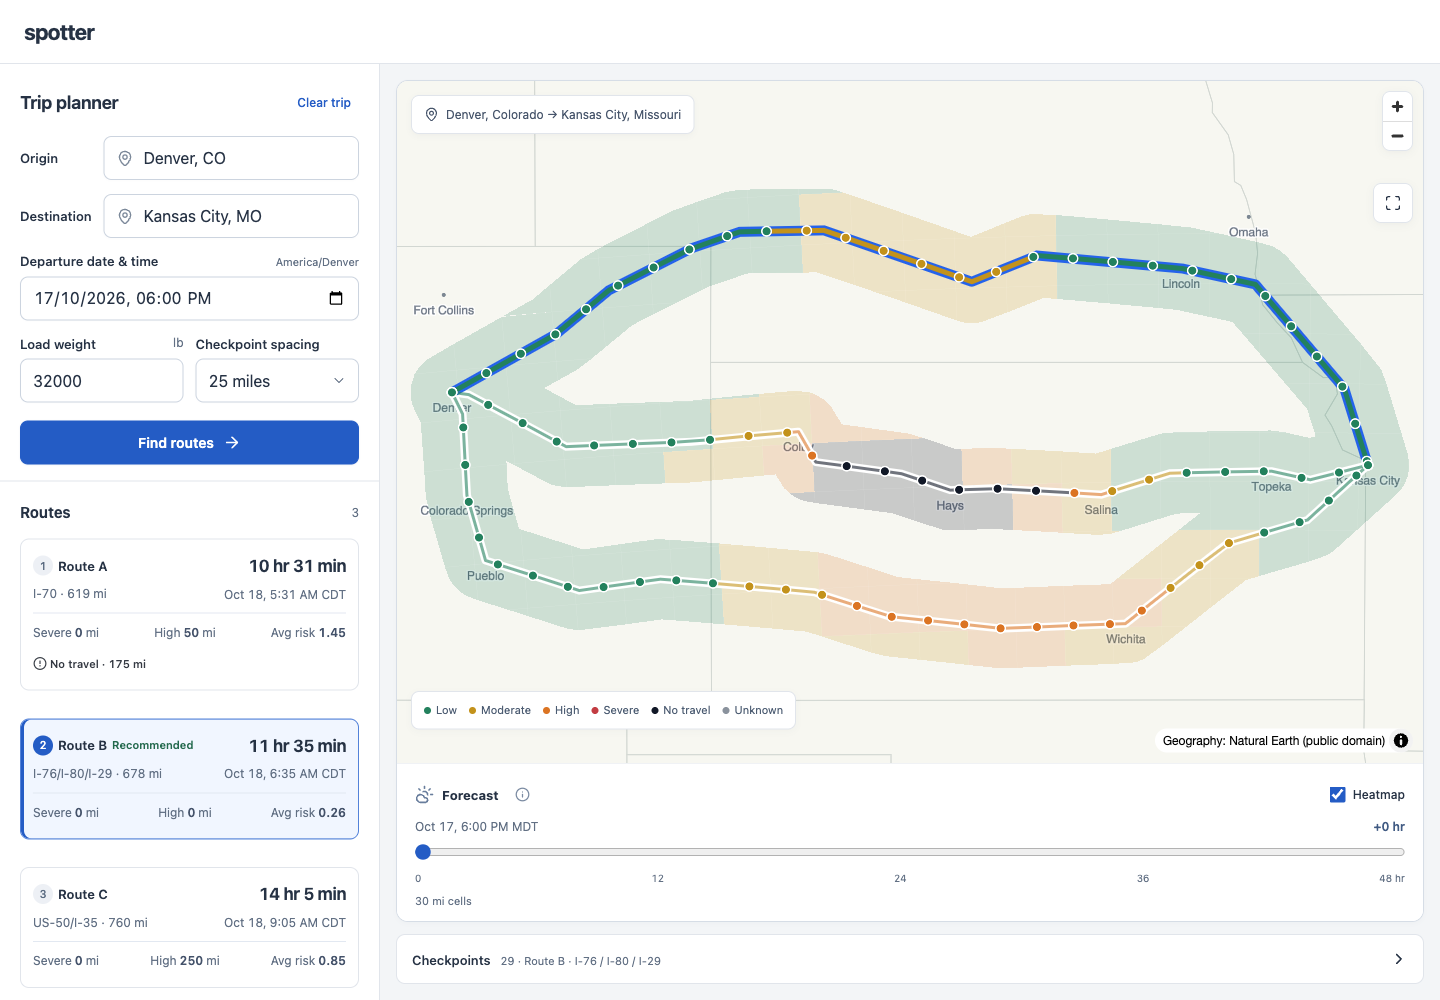
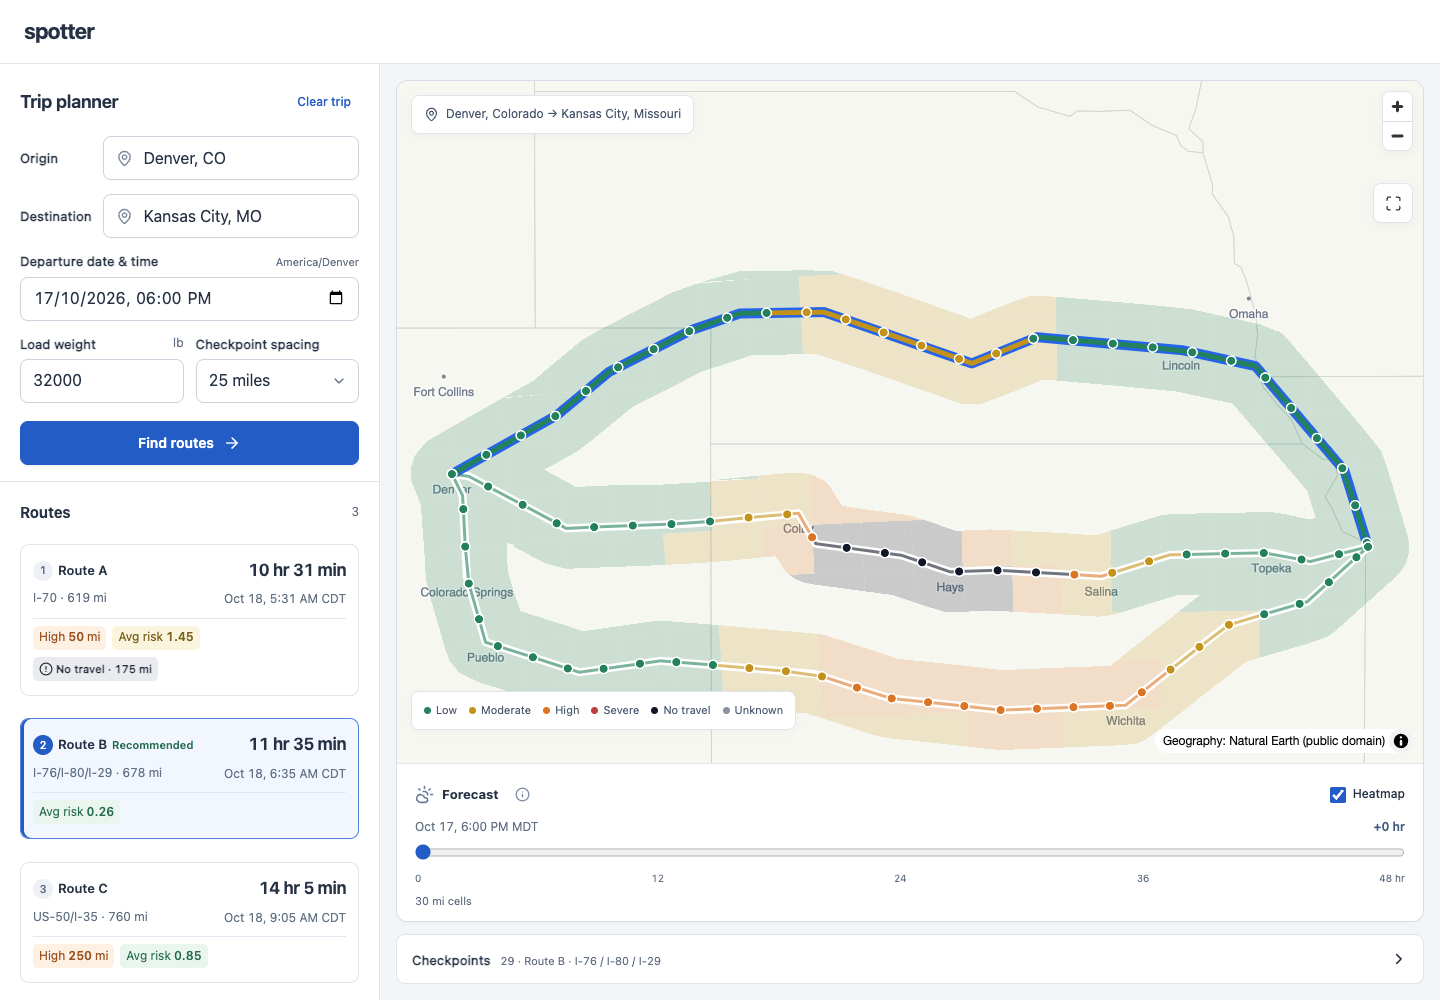
check route hints with live routes offline

diff --git a/frontend/e2e/planner.spec.ts b/frontend/e2e/planner.spec.ts
@@ -95,6 +95,10 @@ test('editing the example submits live routing with the selected load and spacin
 });
 
 test('risk hints hide zeroes and follow the visible route list', async ({ page, isMobile }) => {
+  // Exercise the smaller route viewport used when live credentials are unavailable.
+  await page.route('**/api/health', (route) =>
+    route.fulfill({ json: { live_available: false, missing_configuration: ['TOMTOM_API_KEY'] } }),
+  );
   await page.goto('/');
   await expect(page.getByRole('heading', { name: 'Routes', exact: true })).toBeVisible();
   await expect(page.getByRole('button', { name: /^Severe 0|^High 0/ })).toHaveCount(0);
@@ -111,6 +115,8 @@ test('risk hints hide zeroes and follow the visible route list', async ({ page, 
     await page.setViewportSize({ width: 1280, height: 600 });
     await high.click();
     await expect(tooltip).toBeVisible();
+    // Keep focus on the first stat, but don't hover a different stat as the list moves.
+    await page.getByRole('heading', { name: 'Trip planner', exact: true }).hover();
     const formTop = (await page.locator('.trip-form').boundingBox())!.y;
     await page.locator('.route-options').evaluate((element) => {
       element.scrollTop = element.scrollHeight;

diff --git a/docs/verification.md b/docs/verification.md
@@ -109,6 +109,13 @@ Measured text/background contrast ratios: Low 5.70:1, Moderate 5.55:1, High 5.21
 No Travel 12.23:1, Unknown 4.88:1. The focus token contrasts 6.16:1 against white.
 Average colors are presentation bands, not a classification of the route's worst conditions.
 
+The deployed [risk-color preview](https://spotter-775a6fbgw-xeli-staging.vercel.app/) matched these
+values and colors. Its 1440×1000 workspace had 936px sidebar content in 936px available, with
+all three cards visible. The public application alias points to this deployment.
+The browser regression also covers the smaller route viewport when live routes are unavailable;
+it moves the pointer away before scrolling so a newly hovered stat does not obscure dismissal
+of the original tooltip. The README screenshot reflects the deployed interface.
+
 ## Remaining delivery item
 
 The [seven-minute walkthrough script](walkthrough.md) is ready. A Loom recording and upload have
